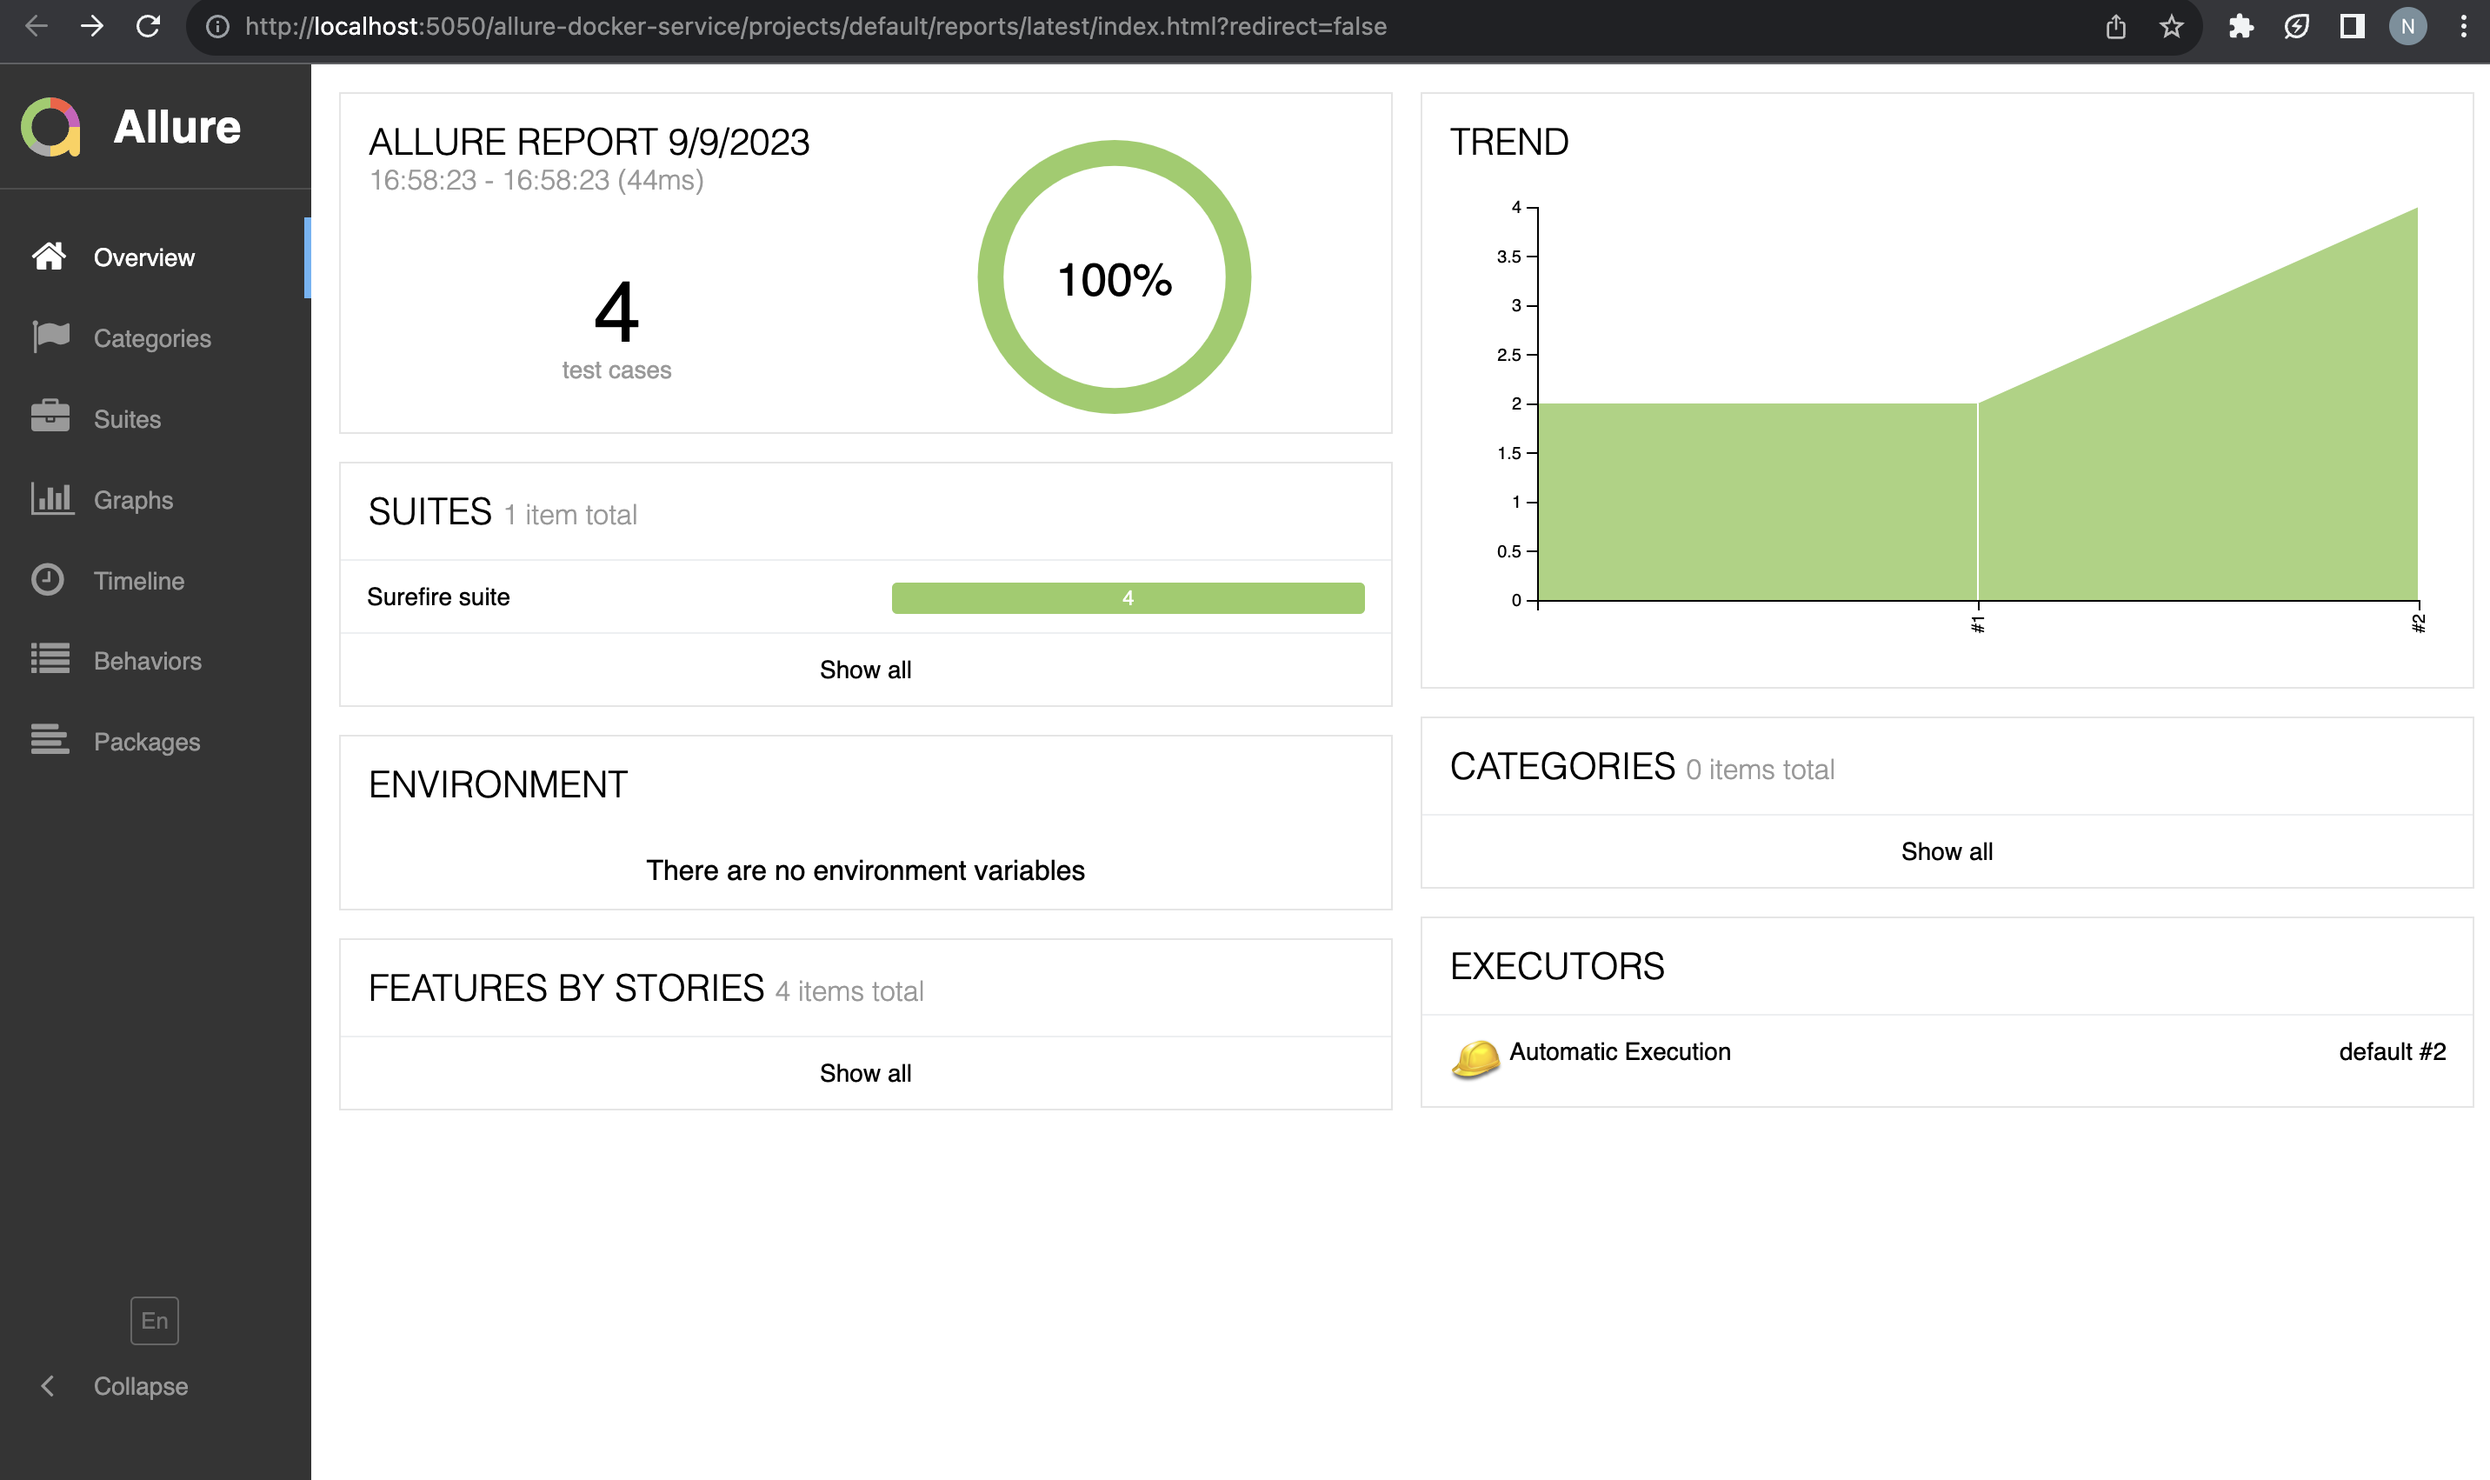
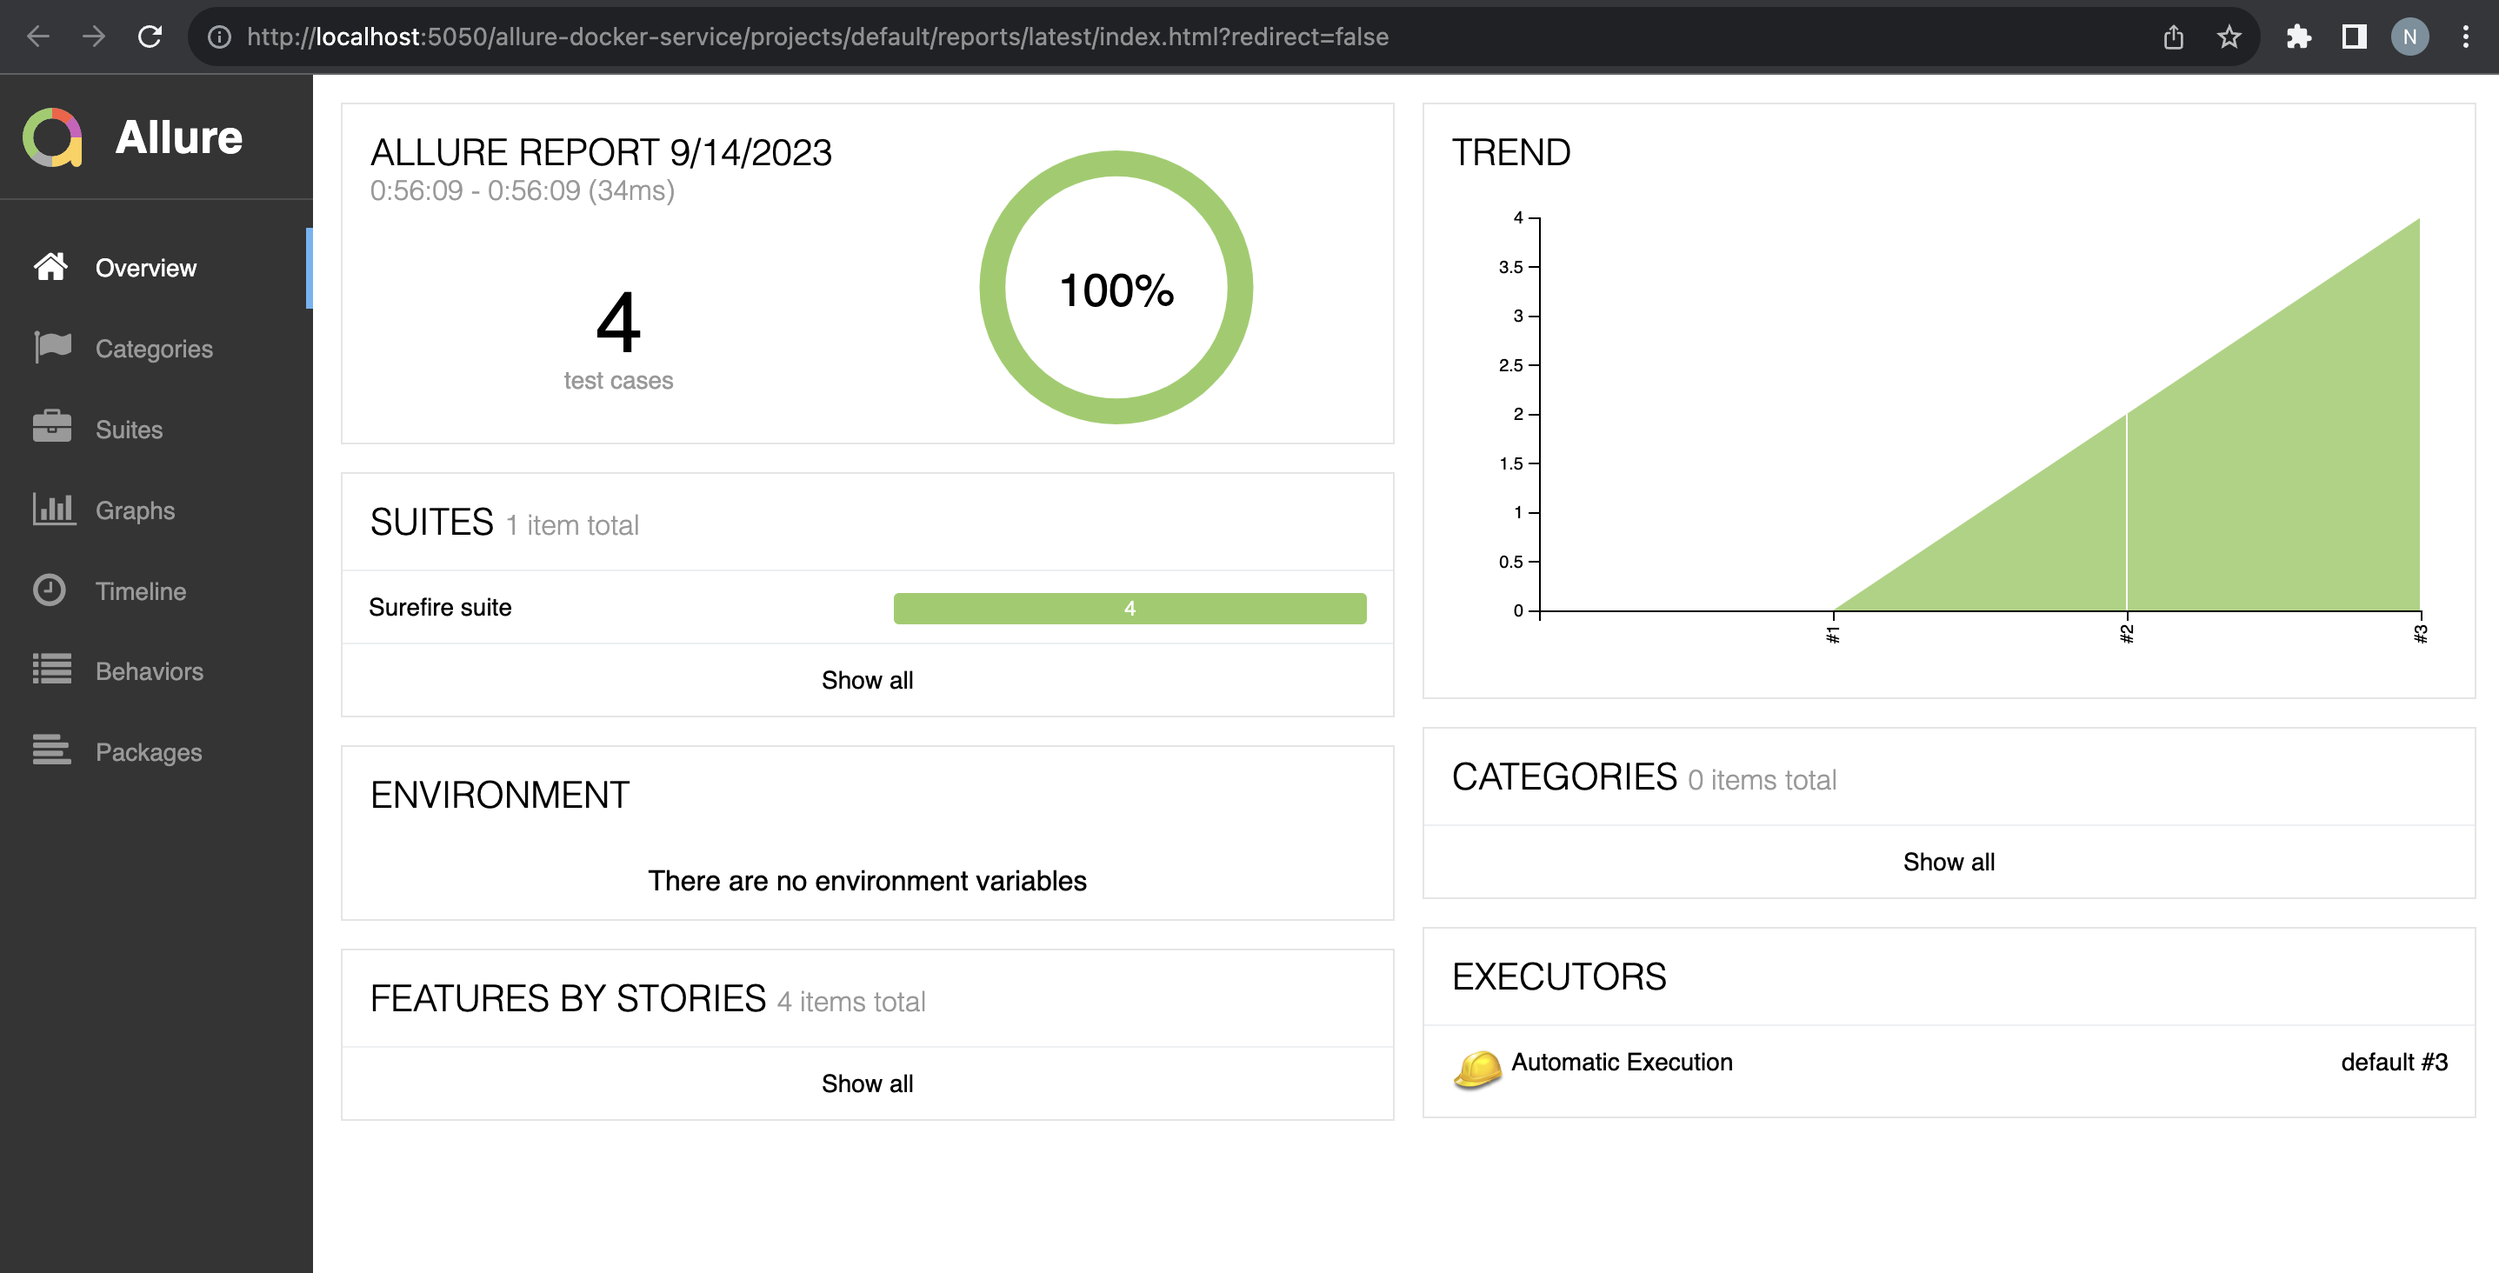
updated readme and shell script

diff --git a/README.md b/README.md
@@ -31,20 +31,34 @@ mvn clean test -Dtest=com.example.SetOfTwoTestCase
 docker pull frankescobar/allure-docker-service
 ```
 
+
 - Start Docker Container at port 5050 and mount generated allure-results
 ```
 docker run -p 5050:5050 -e CHECK_RESULTS_EVERY_SECONDS=3 -e KEEP_HISTORY=1 \
--v <absolute_path_to_your_allure_results_directory>:/app/allure-results \
 frankescobar/allure-docker-service
+```
+
+- Open new terminal window in your IDE and execute 'report_generation.sh' file using command - "./report_generation.sh".If you encounter a 'permission denied' error, resolve it by executing the command 'chmod +x report_generation.sh' to grant execution permission to the file. Afterward, you can run the 'report_generation.sh' script again using the command './report_generation.sh'.
+```
+chmod +x report_generation.sh
+```
+```
+./report_generation.sh
 ```
 
 - Navigate to Allure service running at 5050 port to get the Report - <br>
   [http://localhost:5050/allure-docker-service/latest-report](http://localhost:5050/allure-docker-service/latest-report)
   ![Report with two Test Cases](./report-images/set_of_two_testcases_image.png)
 
+
 - Execute second set of Test Cases
 ```
 mvn clean test -Dtest=com.example.SetOfFourTestCase 
+```
+
+- Execute shell script file again 
+```
+./report_generation.sh
 ```
 
 - Refresh this link to get the latest report - <br>
